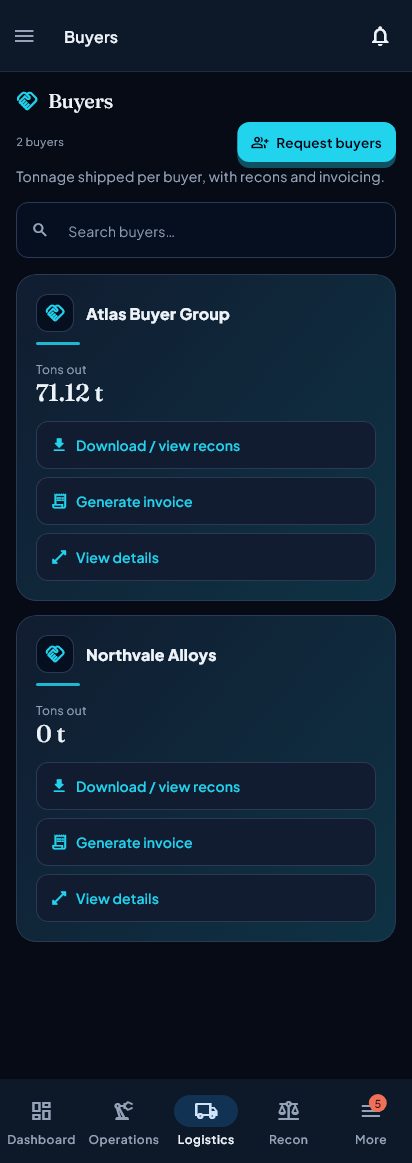
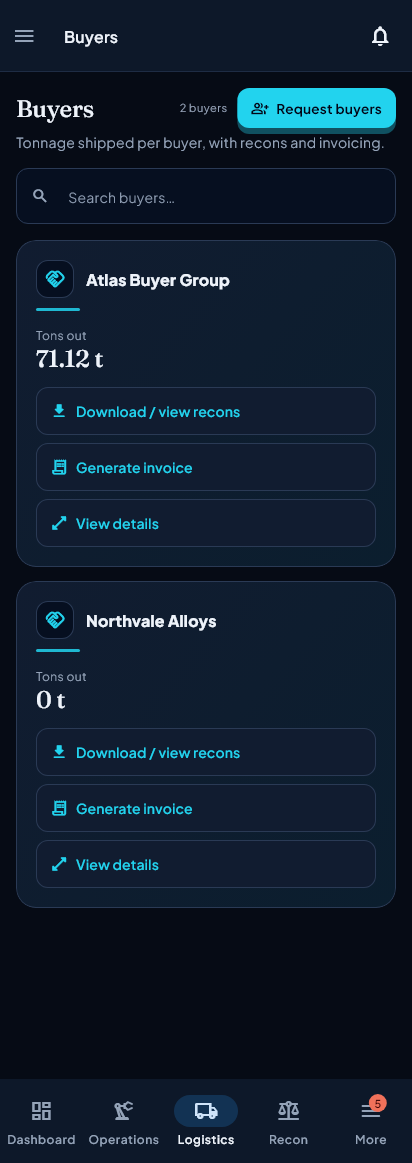
fix(buyers): the mine's Buyers page opens with a page header, and a card in a list of buyers is not the hero of the screen
Reviewer findings #41 and #42, both verified in
`screen-mine-buyers-desktop-dark` before anything was changed.

THE HEAD. The page opened with `MlSectionTitle('Buyers', icon:, action:)` and
a hand-rolled `Text` beneath it — the exact shape `MlPageHeader` was written to
end, and the last portal page still doing it. Three things followed. The title
was the section face, indented by a section icon well. The description was not
part of the header, so nothing laid the two out together. And the tools
followed `MlSectionTitle`'s rules rather than the measuring `_HeaderLayout`
from `bcb0fdb`, which on a phone is what put the meta at the LEFT margin
underneath the title. Measured at 412px, both ways:

           title            meta             action      description
  before   L48 T16 B42      L16  T62 B78     T60.5       T94
  after    L16 T20 B52      L179 T28 B44     T26.5       T60

So the header is 34px shorter, the title starts at the body margin, and the
meta and the button sit at the right end of the title's row — which is where
`2 buyers` and `Request buyers` now read on both renders.

THE CARDS. `BuyerOverviewCard` wraps `OverviewHeroTile`, and this screen draws
one per buyer in a three-column `Wrap`. Every card was therefore taking the
hero treatment: an accent gradient across the panel AND a cyan cast shadow
under it. Emphasis on every card is emphasis on none, and §5.5 asks that a tone
mean something. `muted` already existed on the tile and was passed by NOBODY —
[…]

Changed region(s): [[0.0291, 0.0619, 0.9612, 0.8358]]

diff --git a/test/features/portal/mine_buyers_head_and_cards_test.dart b/test/features/portal/mine_buyers_head_and_cards_test.dart
@@ -1,0 +1,229 @@
+// The mine's Buyers screen: a page head, and cards that are not all heroes.
+//
+// Phase 3 mine-portal pass, 2026-08-23 (reviewer findings #41 and #42, both
+// verified in `screen-mine-buyers-desktop-dark`).
+//
+// 1. The page opened with `MlSectionTitle('Buyers', icon:, action:)` and a
+//    hand-rolled `Text` under it — the exact shape `MlPageHeader` was written
+//    to end. A section head is smaller, carries a section icon, and lays its
+//    tools out by its own rules; the description was not part of the header at
+//    all, so on a phone the meta and the button stacked left ABOVE a sentence
+//    that belonged with the title.
+//
+// 2. `BuyerOverviewCard` wraps `OverviewHeroTile`, and the mine's Buyers
+//    screen draws one per buyer in a three-column `Wrap`. Every card therefore
+//    took the hero treatment — an accent gradient across the panel AND a cyan
+//    cast shadow under it. Emphasis on everything is emphasis on nothing, and
+//    §5.5 asks that a tone mean something. `muted` already existed and was
+//    passed by nobody; it thinned the wash but the glow was drawn either way,
+//    which is the louder half.
+//
+// The other eight `OverviewHeroTile` call sites really are single tiles on
+// their screens ("Tons delivered", "Loading activity", "No stockpiles yet",
+// the selected buyer's panel) and keep the full treatment — deliberately not
+// re-skinned.
+
+import 'package:flutter/material.dart';
+import 'package:flutter_riverpod/flutter_riverpod.dart';
+import 'package:flutter_test/flutter_test.dart';
+import 'package:shared_preferences/shared_preferences.dart';
+import 'package:supabase_flutter/supabase_flutter.dart';
+
+import 'package:flutter_application_1/core/design/components/ml_components.dart';
+import 'package:flutter_application_1/core/theme/app_theme.dart';
+import 'package:flutter_application_1/features/auth/models/user_type.dart';
+import 'package:flutter_application_1/features/portal/screens/mine_supplier_buyers_detail_screen.dart';
+import 'package:flutter_application_1/features/portal/widgets/premium_overview_widgets.dart';
+
+import '../../fixtures/portal_capture_fixtures.dart';
+import '../../fixtures/portal_tail_fixtures.dart';
+import '../../fixtures/screen_fixtures.dart';
+import '../../test_helpers/real_fonts.dart';
+import '../../test_helpers/frozen_clock.dart';
+
+void main() {
+  setUpAll(() async {
+    freezeCaptureClock();
+    await loadRealFonts();
+    SharedPreferences.setMockInitialValues({});
+    await Supabase.initialize(
+      url: 'http://localhost:54321',
+      anonKey: 'mine-buyers-head-and-cards-test',
+    );
+  });
+
+  Future<void> pumpScreen(WidgetTester tester, {double width = 1600}) async {
+    tester.view.physicalSize = Size(width, 2000);
+    tester.view.devicePixelRatio = 1.0;
+    addTearDown(tester.view.reset);
+    await tester.pumpWidget(
+      ProviderScope(
+        overrides: [
+          ...companyScopeOverrides(
+            role: UserRole.admin,
+            orgType: OrgType.mineSupplier,
+          ),
+          ...portalCaptureOverrides(),
+          ...portalTailOverrides(),
+        ],
+        child: MaterialApp(
+          theme: AppTheme.darkTheme,
+          home: const Scaffold(body: MineSupplierBuyersDetailScreen()),
+        ),
+      ),
+    );
+    await tester.pump();
+    await tester.pump(const Duration(milliseconds: 600));
+  }
+
+  Future<void> pumpTile(WidgetTester tester, {required bool muted}) async {
+    tester.view.physicalSize = const Size(600, 600);
+    tester.view.devicePixelRatio = 1.0;
+    addTearDown(tester.view.reset);
+    await tester.pumpWidget(
+      MaterialApp(
+        theme: AppTheme.darkTheme,
+        home: Scaffold(
+          body: Center(
+            child: SizedBox(
+              width: 320,
+              child: OverviewHeroTile(
+                title: 'A tile',
+                muted: muted,
+                child: const Text('body'),
+              ),
+            ),
+          ),
+        ),
+      ),
+    );
+    await tester.pump();
+  }
+
+  /// Every `BoxShadow` painted by the tile's own decoration.
+  List<BoxShadow> tileShadows(WidgetTester tester) {
+    final decorated = tester.widget<DecoratedBox>(
+      find
+          .descendant(
+            of: find.byType(OverviewHeroTile),
+            matching: find.byType(DecoratedBox),
+          )
+          .first,
+    );
+    return (decorated.decoration as BoxDecoration).boxShadow ??
+        const <BoxShadow>[];
+  }
+
+  testWidgets('a muted tile casts no accent glow', (tester) async {
+    await pumpTile(tester, muted: true);
+    expect(
+      tileShadows(tester),
+      isEmpty,
+      reason:
+          'the wash AND the glow together are what say "this one". Thinning '
+          'one and keeping the other still halos every card in a list',
+    );
+  });
+
+  // The GREEN case: an UNmuted tile is still a hero and still glows. Eight
+  // call sites depend on that and none of them was re-skinned.
+  testWidgets('an unmuted tile still casts its glow', (tester) async {
+    await pumpTile(tester, muted: false);
+    expect(tileShadows(tester), isNotEmpty);
+  });
+
+  testWidgets('every buyer card is muted', (tester) async {
+    await pumpScreen(tester);
+
+    final cards = find.byType(BuyerOverviewCard);
+    expect(
+      tester.widgetList(cards).length,
+      greaterThan(1),
+      reason: 'one card cannot show that a repeated card is over-emphasised',
+    );
+
+    for (final tile in tester.widgetList<OverviewHeroTile>(
+      find.descendant(of: cards, matching: find.byType(OverviewHeroTile)),
+    )) {
+      expect(
+        tile.muted,
+        isTrue,
+        reason: '"${tile.title}" is one buyer of several, not the hero of the '
+            'screen',
+      );
+    }
+  });
+
+  testWidgets('the page opens with a page header, not a section head', (
+    tester,
+  ) async {
+    await pumpScreen(tester);
+
+    final header = tester.widget<MlPageHeader>(find.byType(MlPageHeader));
+    expect(header.title, 'Buyers');
+    expect(
+      header.description,
+      'Tonnage shipped per buyer, with recons and invoicing.',
+      reason: 'the sentence belongs to the header, so the header lays it out',
+    );
+    expect(header.meta, isNotNull);
+    expect(header.actions, isNotEmpty);
+
+    expect(
+      find.descendant(
+        of: find.byType(MlSectionTitle),
+        matching: find.text('Buyers'),
+      ),
+      findsNothing,
+      reason: 'a page title is not a section title',
+    );
+  });
+
+  testWidgets('on a phone the meta is not stranded at the left margin', (
+    tester,
+  ) async {
+    await pumpScreen(tester, width: 412);
+
+    final title = tester.getRect(find.text('Buyers'));
+    final meta = tester.getRect(find.text('2 buyers'));
+    final action = tester.getRect(find.text('Request buyers'));
+    final description = tester.getRect(
+      find.text('Tonnage shipped per buyer, with recons and invoicing.'),
+    );
+
+    // Measured at 412px on 2026-08-23, both ways:
+    //
+    //            title              meta                action     description
+    //   before   L48 T16 B42    L16  T62 B78       L276 T60.5    T94
+    //   after    L16 T20 B52    L179 T28 B44       L276 T26.5    T60
+    //
+    // The meta at L16 under a title indented to L48 is the reviewer's
+    // "phone meta/action stack left": `MlSectionTitle` puts its tools in a run
+    // beneath the title at the LEFT, while the measuring `_HeaderLayout`
+    // right-aligns them whether it stacks or not (`bcb0fdb`).
+    expect(
+      meta.left,
+      greaterThan(title.right),
+      reason:
+          'the meta belongs at the right end of the header, not at the left '
+          'margin under the title',
+    );
+    expect(
+      meta.center.dy,
+      inInclusiveRange(title.top, title.bottom),
+      reason: 'at this width the tools fit beside the title, so they sit on '
+          'its row',
+    );
+    expect(action.center.dy, inInclusiveRange(title.top, title.bottom));
+
+    // A page title starts at the body's left margin. A section title is
+    // indented by its icon well, which is how it read here (L48 vs L16).
+    expect(
+      title.left,
+      description.left,
+      reason: 'no section icon pushing the page title in',
+    );
+
+    expect(description.top, greaterThan(action.bottom));
+  });
+}

diff --git a/lib/features/portal/screens/mine_supplier_buyers_detail_screen.dart b/lib/features/portal/screens/mine_supplier_buyers_detail_screen.dart
@@ -168,27 +168,34 @@ class _MineSupplierBuyersDetailScreenState
           child: Column(
             crossAxisAlignment: CrossAxisAlignment.start,
             children: [
-              MlSectionTitle(
-                'Buyers',
+              // A PAGE opens with `MlPageHeader`. This one opened with a
+              // SECTION head and a hand-rolled `Text` under it — the
+              // shape `MlPageHeader` exists to end (see its own doc
+              // comment): a smaller editorial title indented by a
+              // section icon, a description that is not part of the
+              // header and therefore not laid out with it, and tools
+              // that follow `MlSectionTitle`'s rules rather than the
+              // measuring header's — which on a phone stranded the meta
+              // at the LEFT margin under the title. Every other portal
+              // page in this pass reads title · description · meta ·
+              // actions.
+              MlPageHeader(
+                title: 'Buyers',
+                description:
+                    'Tonnage shipped per buyer, with recons and invoicing.',
                 meta: rows.length == all.length
                     ? mlCount(all.length, 'buyer')
                     : '${rows.length} of ${all.length} shown',
-                icon: Icons.handshake_outlined,
-                margin: EdgeInsets.zero,
-                action: MlButton.primary(
-                  label: 'Request buyers',
-                  icon: Icons.group_add_outlined,
-                  compact: true,
-                  onPressed: () =>
-                      showBuyersRequestDialog(context, ref, companyId),
-                ),
-              ),
-              const SizedBox(height: 4),
-              Text(
-                'Tonnage shipped per buyer, with recons and invoicing.',
-                style: Theme.of(context).textTheme.bodyMedium?.copyWith(
-                      color: Theme.of(context).colorScheme.onSurfaceVariant,
-                    ),
+                actions: [
+                  MlButton.primary(
+                    label: 'Request buyers',
+                    icon: Icons.group_add_outlined,
+                    compact: true,
+                    onPressed: () =>
+                        showBuyersRequestDialog(context, ref, companyId),
+                  ),
+                ],
+                padding: EdgeInsets.zero,
               ),
               const SizedBox(height: 16),
               TextField(

diff --git a/lib/features/portal/widgets/premium_overview_widgets.dart b/lib/features/portal/widgets/premium_overview_widgets.dart
@@ -105,13 +105,24 @@ class OverviewHeroTile extends StatelessWidget {
         ),
         borderRadius: radius,
         border: Border.all(color: MlSemantic.of(context).borderCard),
-        boxShadow: [
-          BoxShadow(
-            color: PortalColors.accent.withValues(alpha: 0.06),
-            blurRadius: 18,
-            offset: const Offset(0, 8),
-          ),
-        ],
+        // A MUTED TILE DOES NOT GLOW.
+        //
+        // `muted` already thins the accent wash (0.16 → 0.05), but the
+        // cyan cast shadow was drawn either way — so a grid of muted
+        // tiles still had a cyan halo under every one of them, which is
+        // the loudest half of the treatment. This is a HERO tile: the
+        // wash and the glow together say "this one". Repeated down a
+        // list of equals they say nothing, and §5.5 asks that a tone
+        // mean something.
+        boxShadow: muted
+            ? null
+            : [
+                BoxShadow(
+                  color: PortalColors.accent.withValues(alpha: 0.06),
+                  blurRadius: 18,
+                  offset: const Offset(0, 8),
+                ),
+              ],
       ),
       child: onTap == null
           ? content
@@ -290,6 +301,13 @@ class BuyerOverviewCard extends StatelessWidget {
     return OverviewHeroTile(
       title: name,
       icon: Icons.handshake_outlined,
+      // ONE OF MANY, not the one. `/portal/mine/buyers` draws this card
+      // once per buyer in a three-column `Wrap`, and every one of them
+      // was taking the hero wash and the cyan glow — an emphasis that
+      // cannot distinguish anything when everything has it. The other
+      // eight call sites of `OverviewHeroTile` really are single tiles
+      // on their screens and keep the full treatment.
+      muted: true,
       child: Column(
         crossAxisAlignment: CrossAxisAlignment.start,
         children: [
